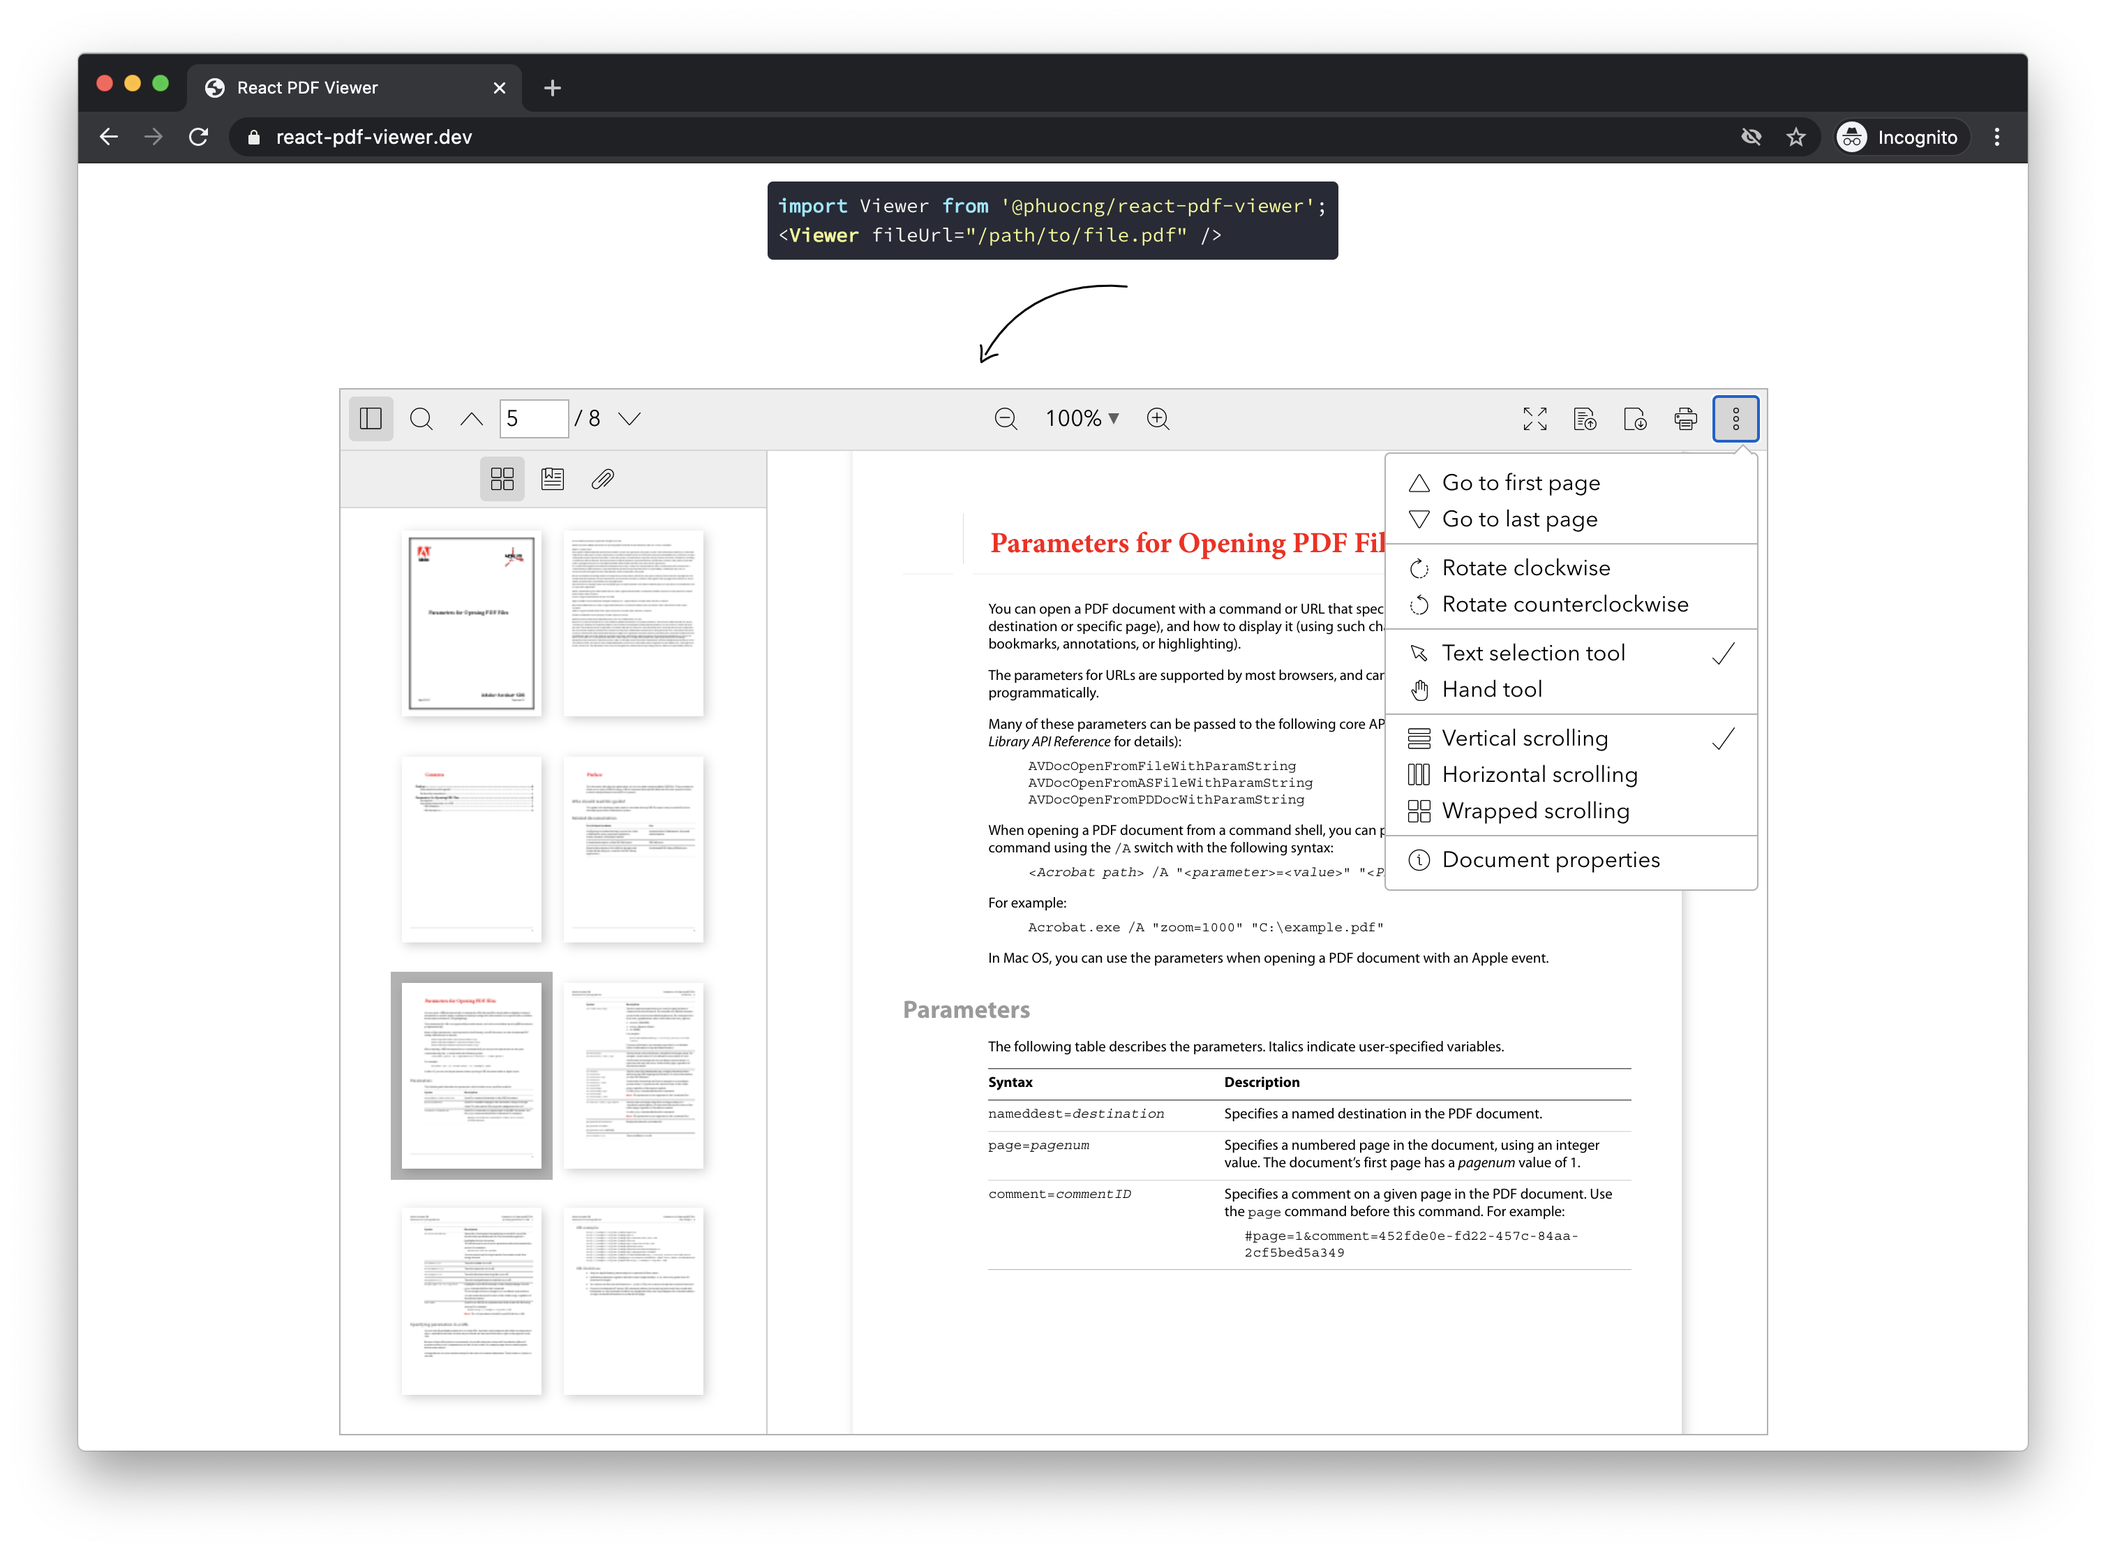
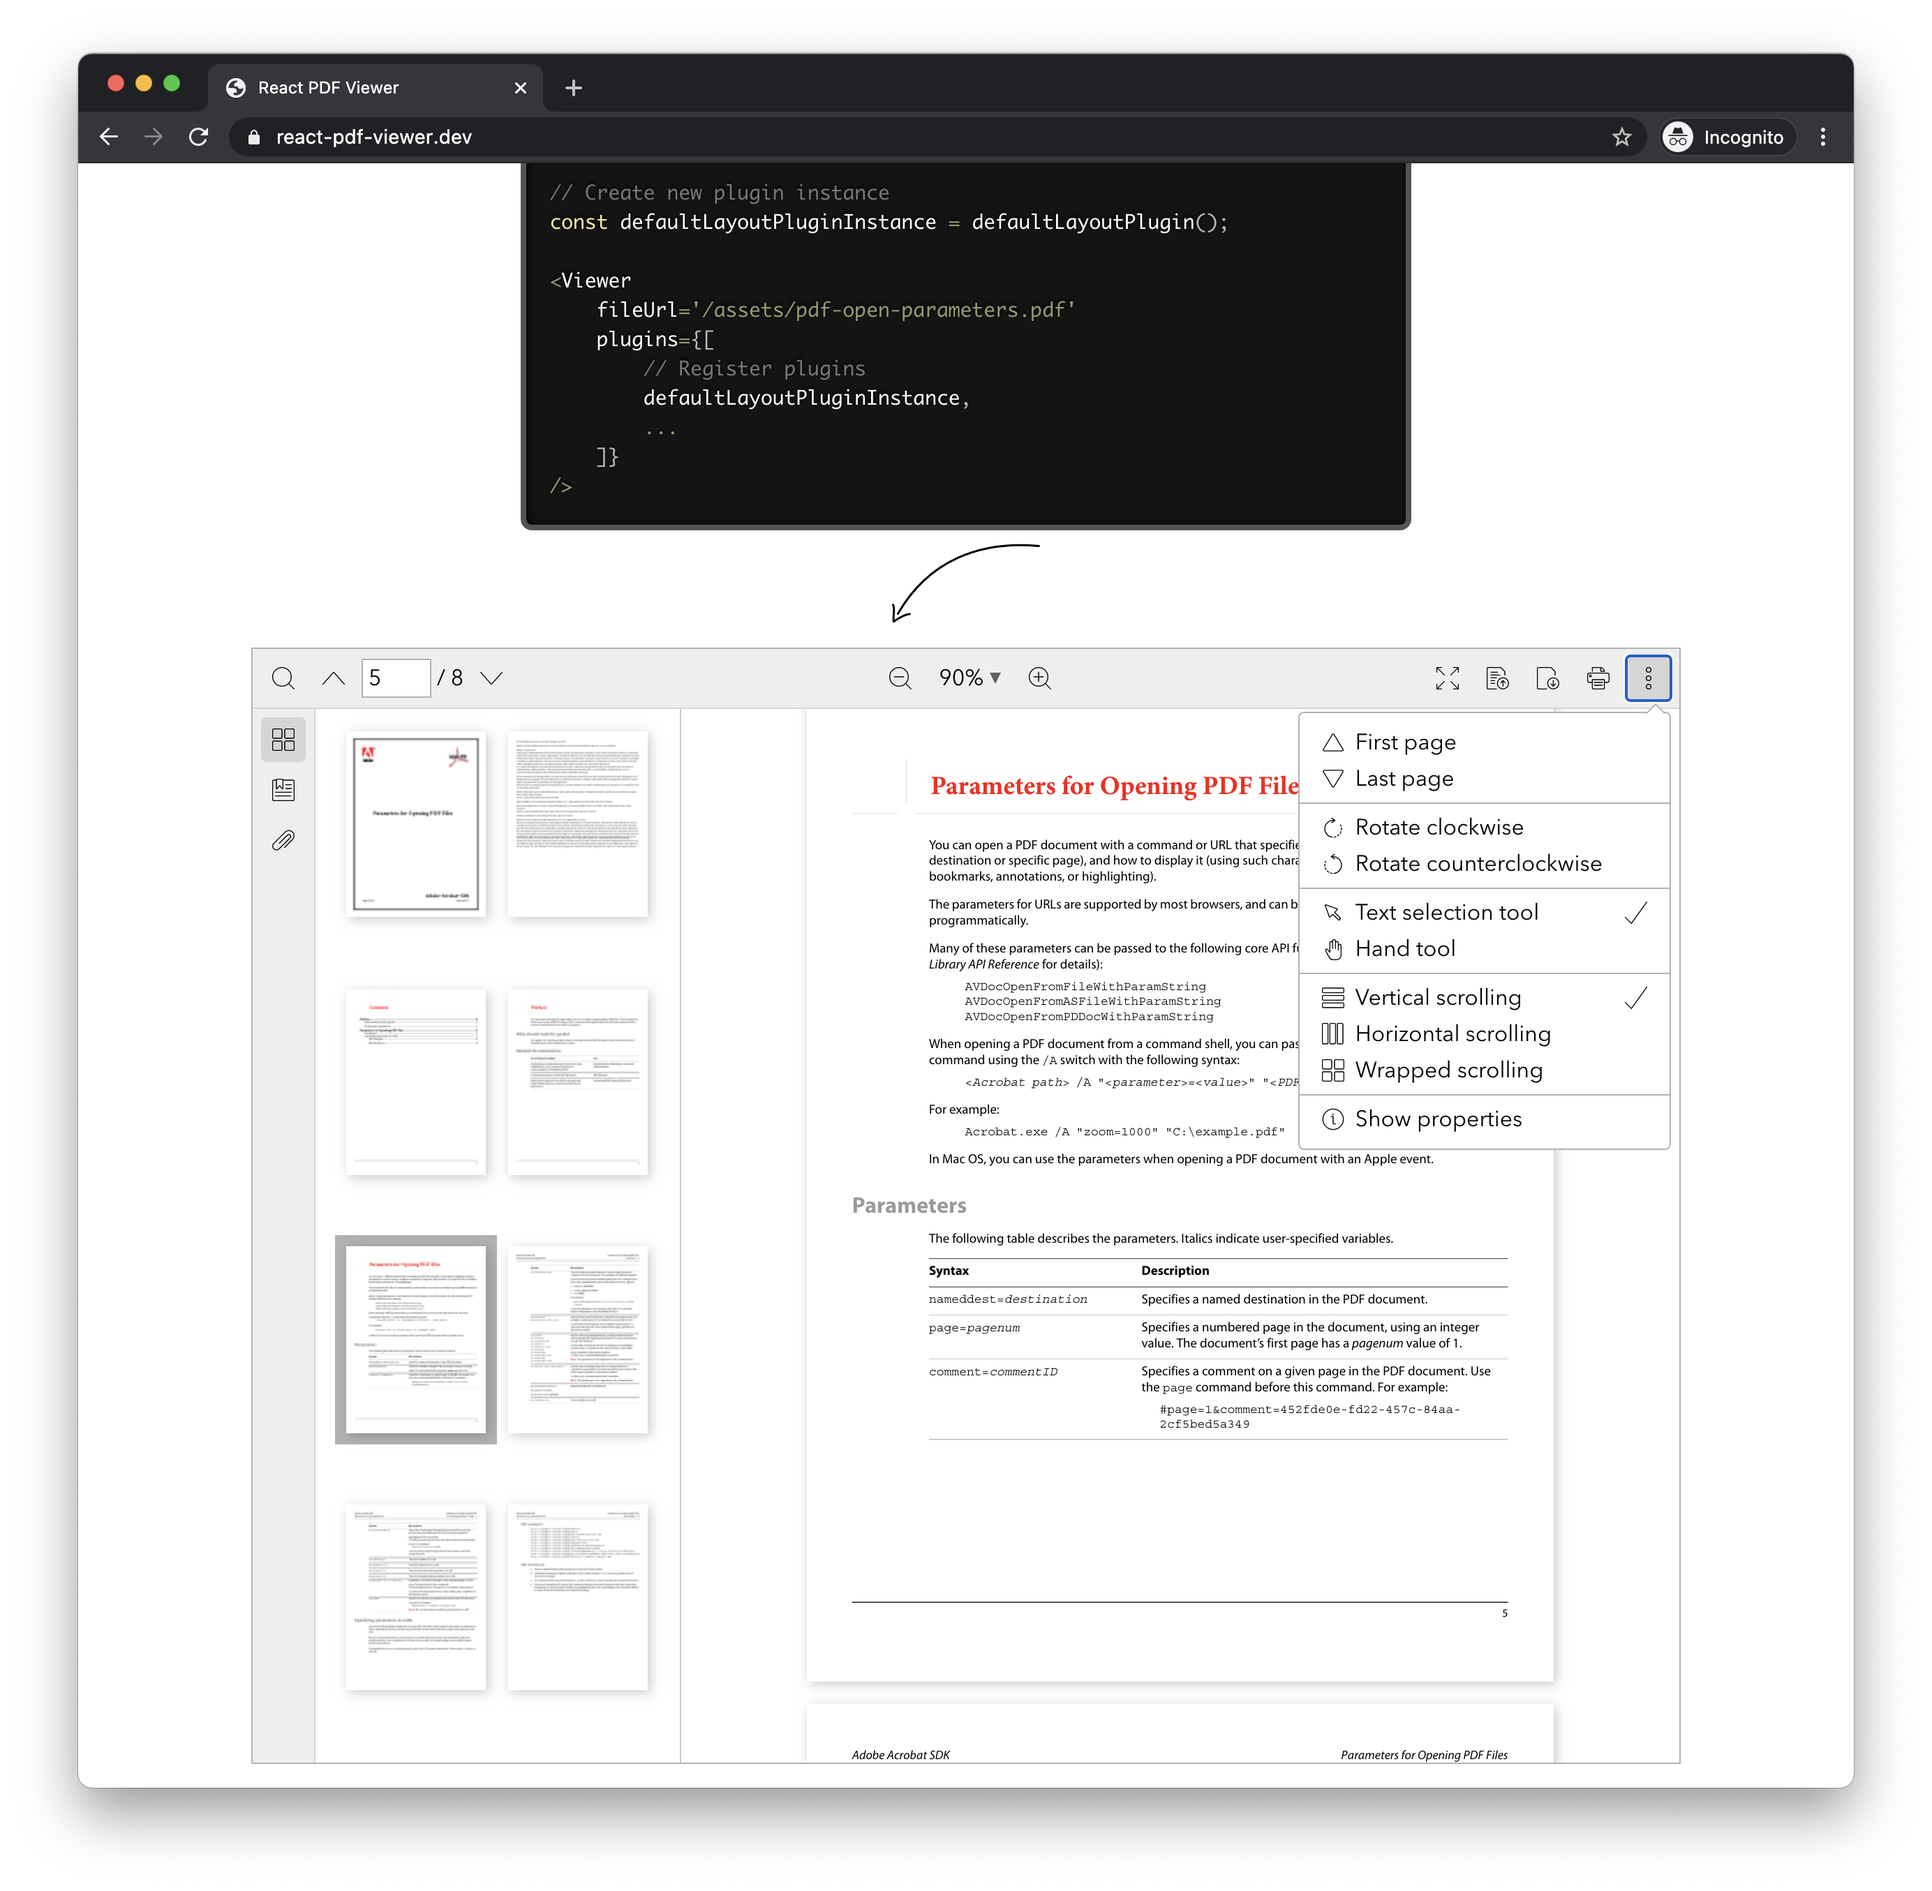
Update screenshot and usage

diff --git a/README.md b/README.md
@@ -3,12 +3,27 @@ A React component to view a PDF document.
 It's written in TypeScript, and powered by React hooks completely.
 
 ~~~ javascript
+// Core viewer
 import { Viewer } from '@react-pdf-viewer/core';
+
+// Plugins
+import { defaultLayoutPlugin } from '@react-pdf-viewer/default-layout';
 
 // Import styles
 import '@react-pdf-viewer/core/lib/styles/index.css';
+import '@react-pdf-viewer/default-layout/lib/styles/index.css';
 
-<Viewer fileUrl='/path/to/document.pdf' />
+// Create new plugin instance
+const defaultLayoutPluginInstance = defaultLayoutPlugin();
+
+<Viewer
+    fileUrl='/assets/pdf-open-parameters.pdf'
+    plugins={[
+        // Register plugins
+        defaultLayoutPluginInstance,
+        ...
+    ]}
+/>
 ~~~
 
 ![React PDF viewer](https://raw.githubusercontent.com/phuoc-ng/react-pdf-viewer/master/assets/screenshot.png)
